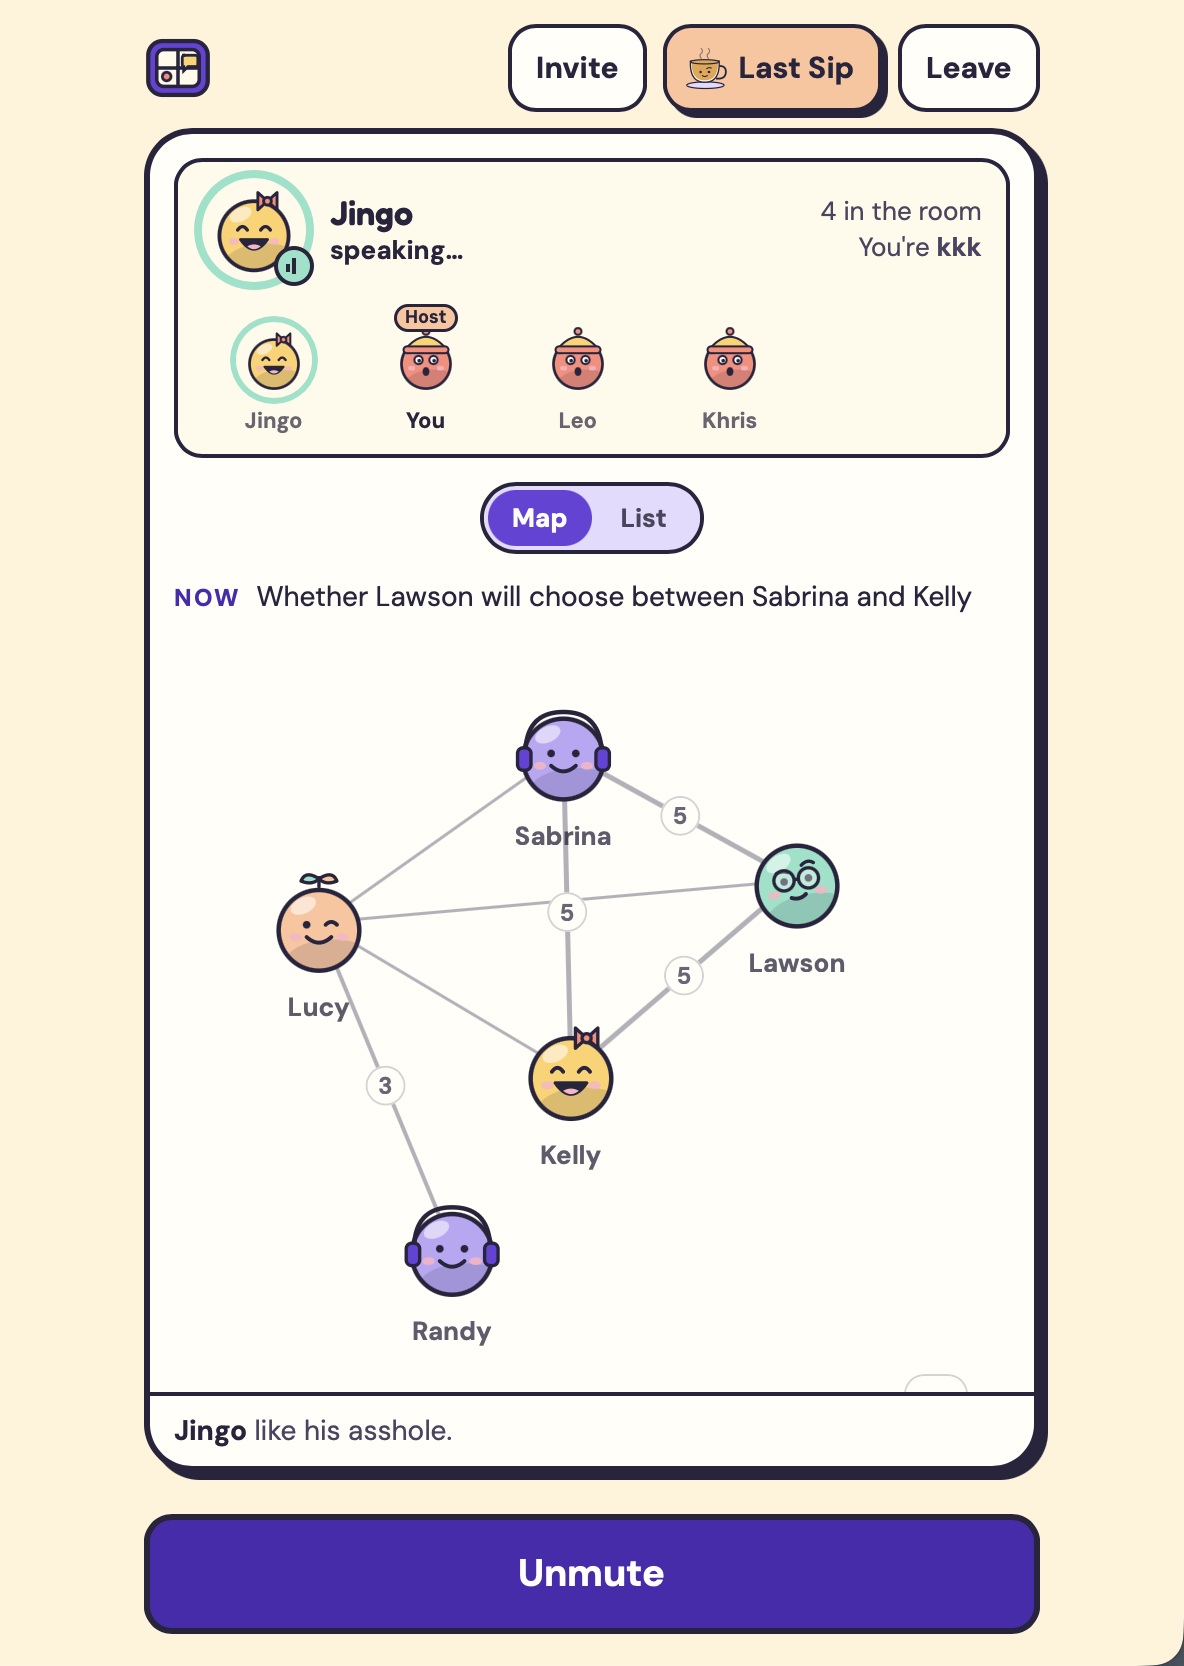
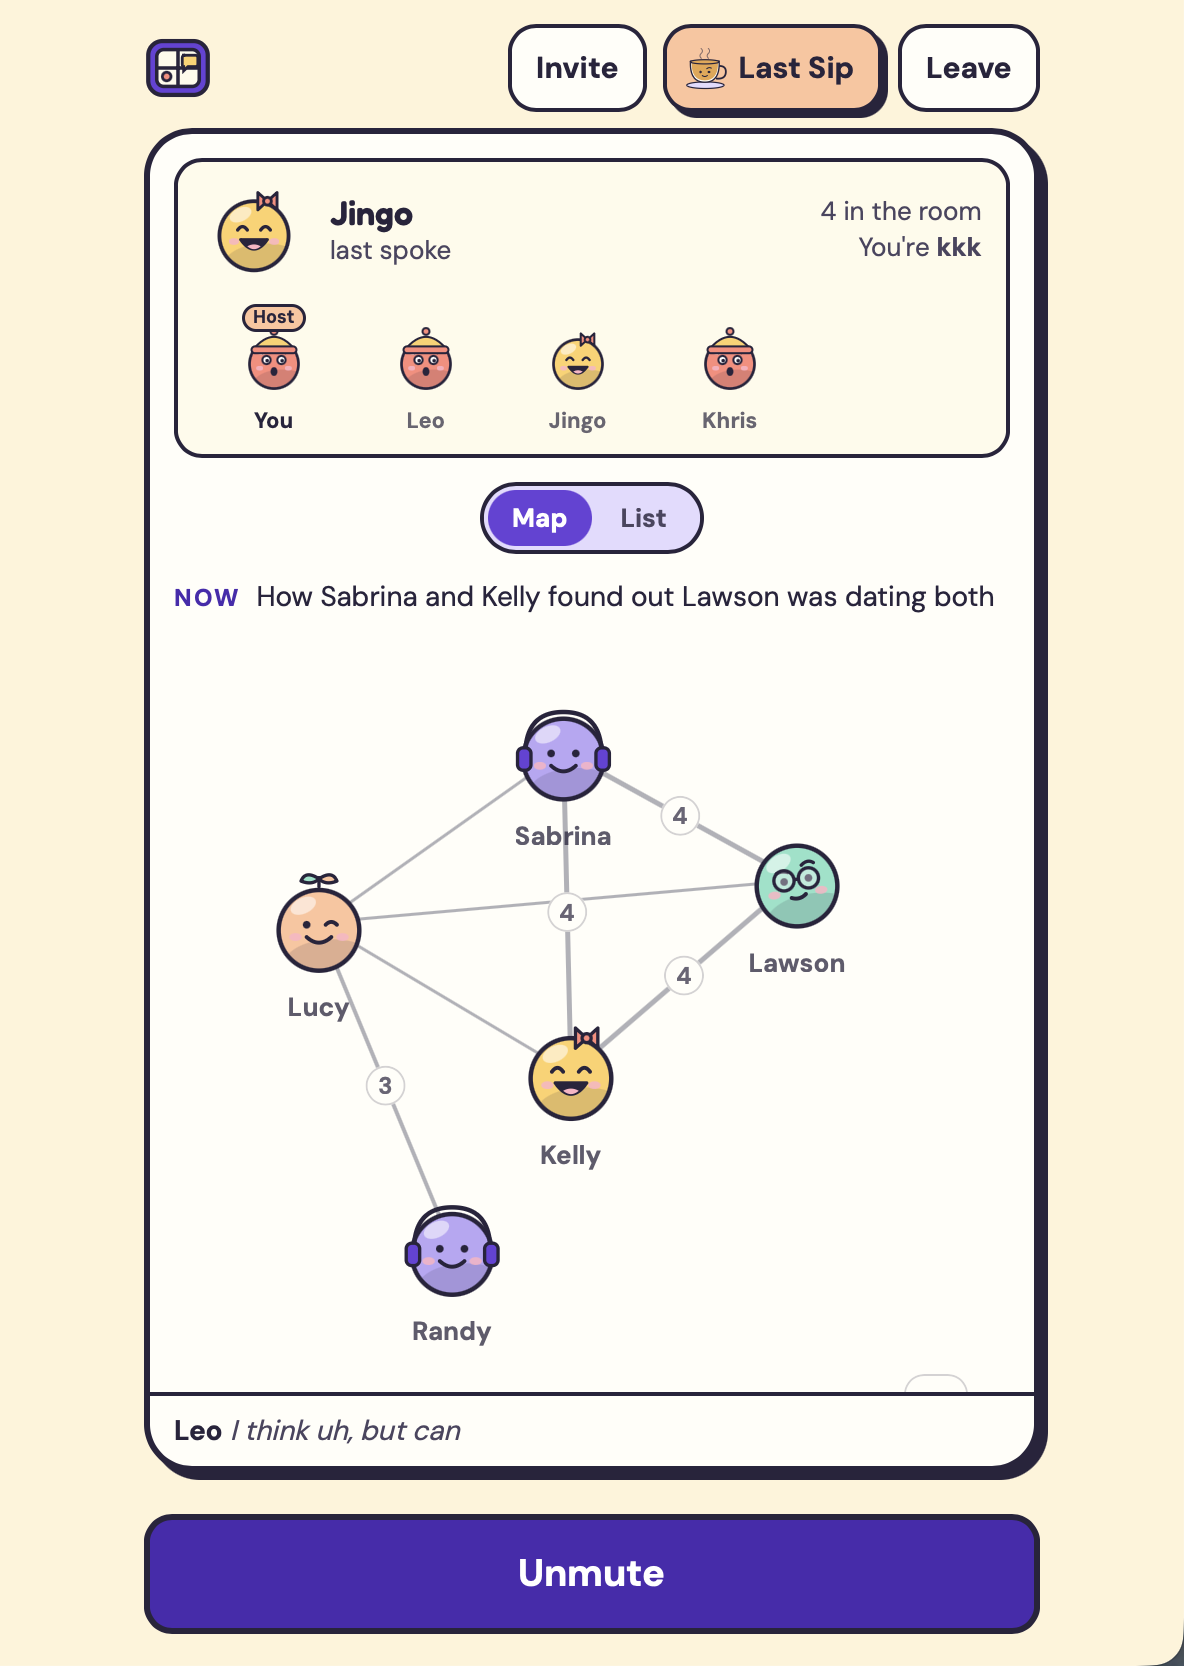
[Docs] README: replace the Map screenshot
Swap in a cleaner Map capture and update its alt text to the new
shared-story counts.

diff --git a/README.md b/README.md
@@ -74,7 +74,7 @@ Everyone shares a live recall board: who's being talked about, their stories in 
 <table>
   <tr>
     <td width="50%" align="center"><img src="docs/media/board.png" alt="The List view: Now, Lawson changed the plan again. Lawson is marked Mentioned again, with his Dates and Labels stories." width="280"></td>
-    <td width="50%" align="center"><img src="docs/media/map.png" alt="The Map: Sabrina, Lucy, Kelly, Lawson and Randy as character icons, joined by lines with shared-story counts of 5 and 3." width="280"></td>
+    <td width="50%" align="center"><img src="docs/media/map.png" alt="The Map: Sabrina, Lucy, Kelly, Lawson and Randy as character icons, joined by lines with shared-story counts of 4 and 3." width="280"></td>
   </tr>
   <tr>
     <td valign="top"><b>List.</b> Each person with their stories, newest first, and a tag when someone is mentioned again.</td>
